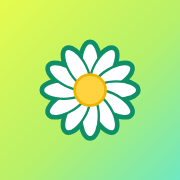
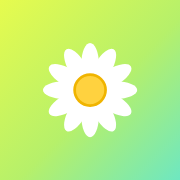
배너의 식물 추가 버튼 제거, 앱 아이콘 데이지 테두리 제거
Claude-Session: https://claude.ai/code/session_01VntDstoBQq75JLBv8FqeFH

Changed region(s): [[0.2222, 0.2222, 0.8056, 0.8056]]

diff --git a/index.html b/index.html
@@ -1147,7 +1147,7 @@ html,body{margin:0}
     const need = rows.filter(r=>r.s.kind==='late'||r.s.kind==='due'||r.s.kind==='none');
     let banner;
     const hi = welcome(), sub = t => `<p>${t}</p>`;
-    if(!rows.length) banner = `<div><h2>${hi}</h2>${sub('식물 하나만 데려오면 물 줄 날은 내가 챙길게.')}${wxFresh()?wxLine():''}</div><button class="btn bn-cta" data-act="add">+ 식물 추가</button>`;
+    if(!rows.length) banner = `<div><h2>${hi}</h2>${sub('식물 하나만 데려오면 물 줄 날은 내가 챙길게.')}${wxFresh()?wxLine():''}</div>`;
     else if(!need.length) banner = `<div><h2>${hi}</h2>${sub(`다들 아직 촉촉해. 다음 급수는 ${md(rows[0].s.next)}.`)}${wxFresh()?wxLine():''}</div>`;
     else banner = `<div><h2>${hi}</h2>${wxFresh()?wxLine():''}</div><div class="chips">${need.map(r=>`<button data-act="open" data-id="${r.p.id}" class="${r.s.kind==='late'?'late':''}">${esc(r.p.name)} · ${r.s.label}</button>`).join('')}</div>`;
 
